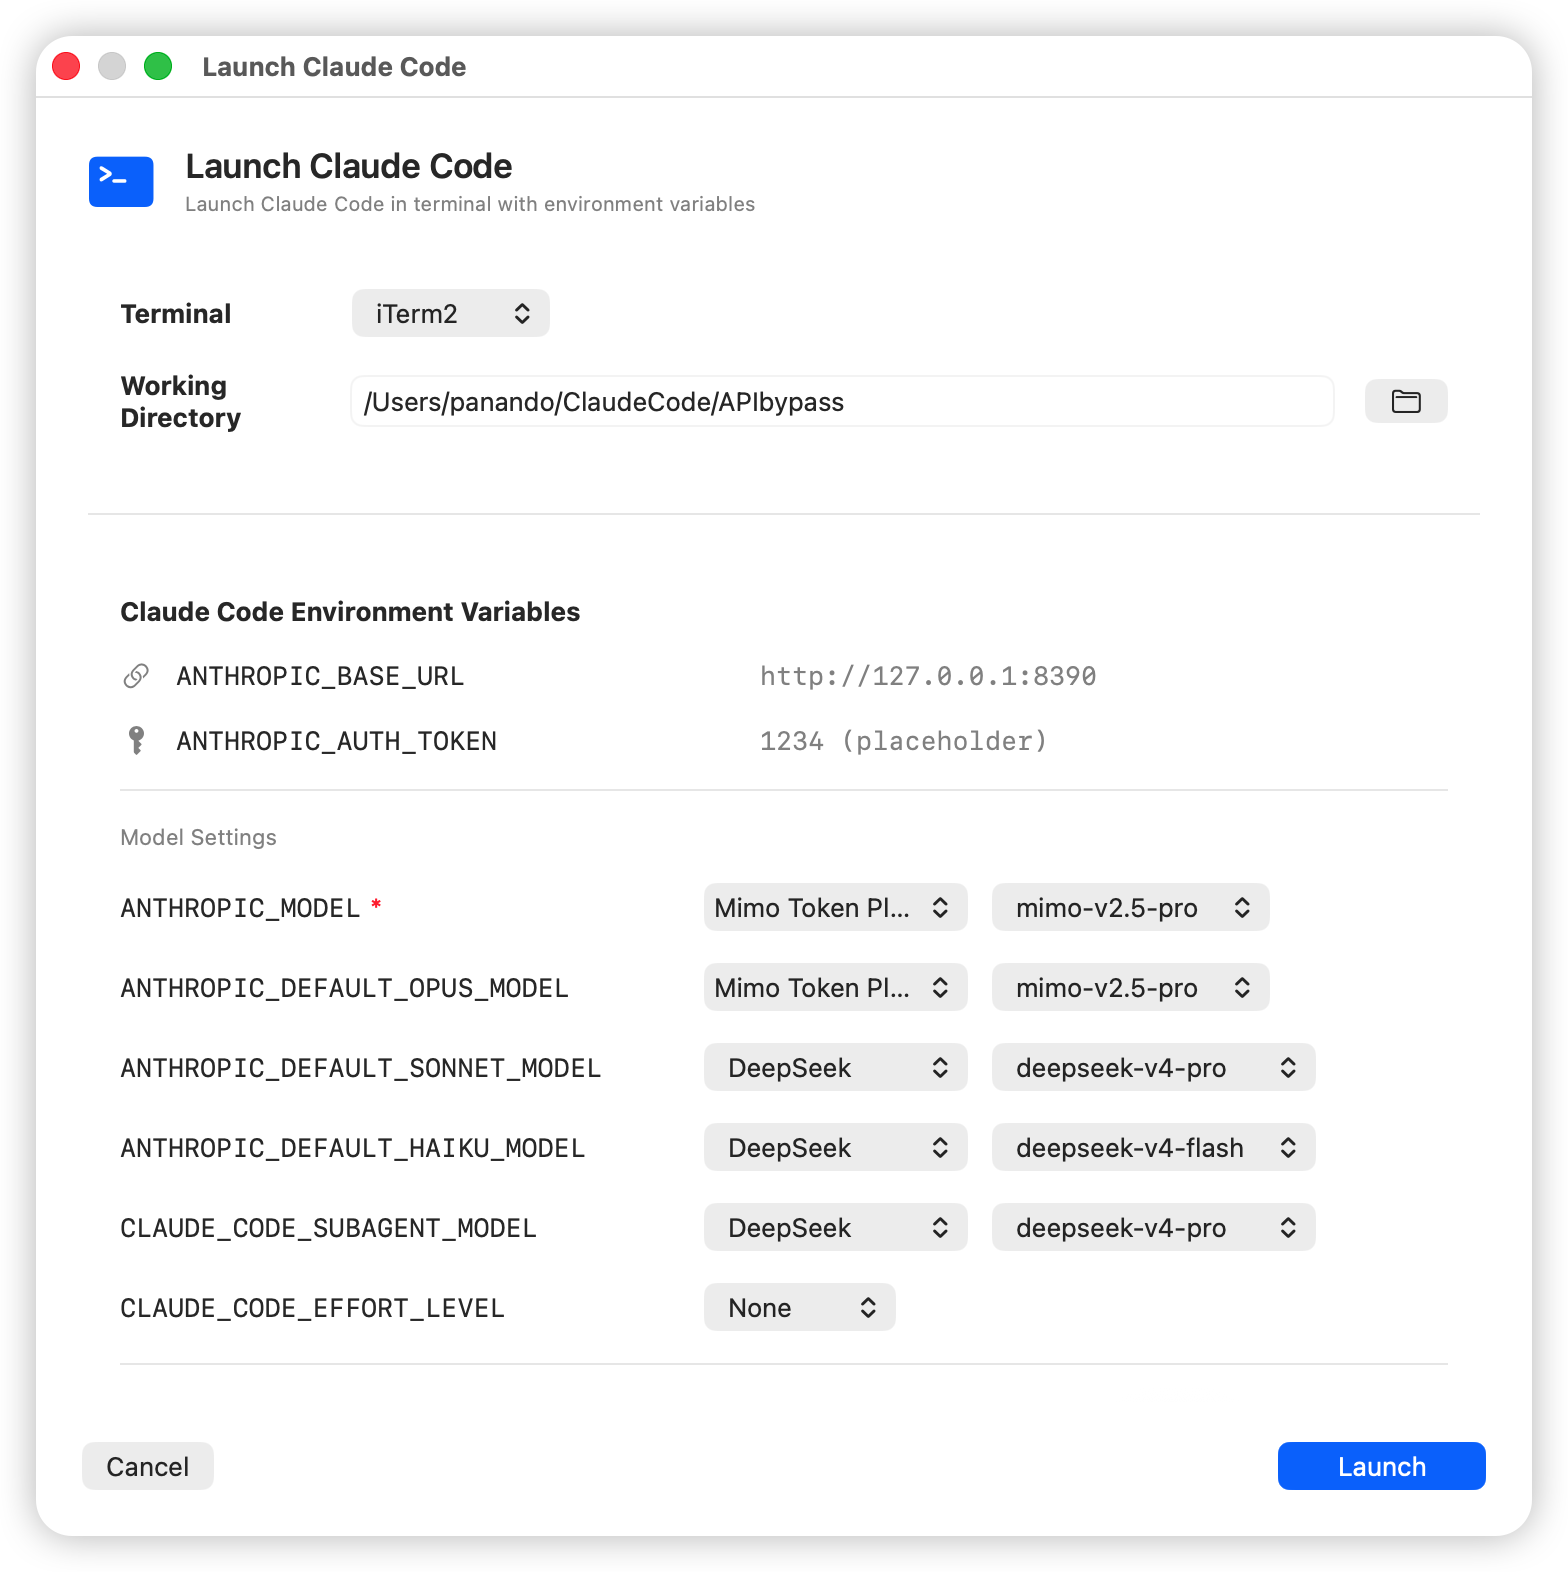
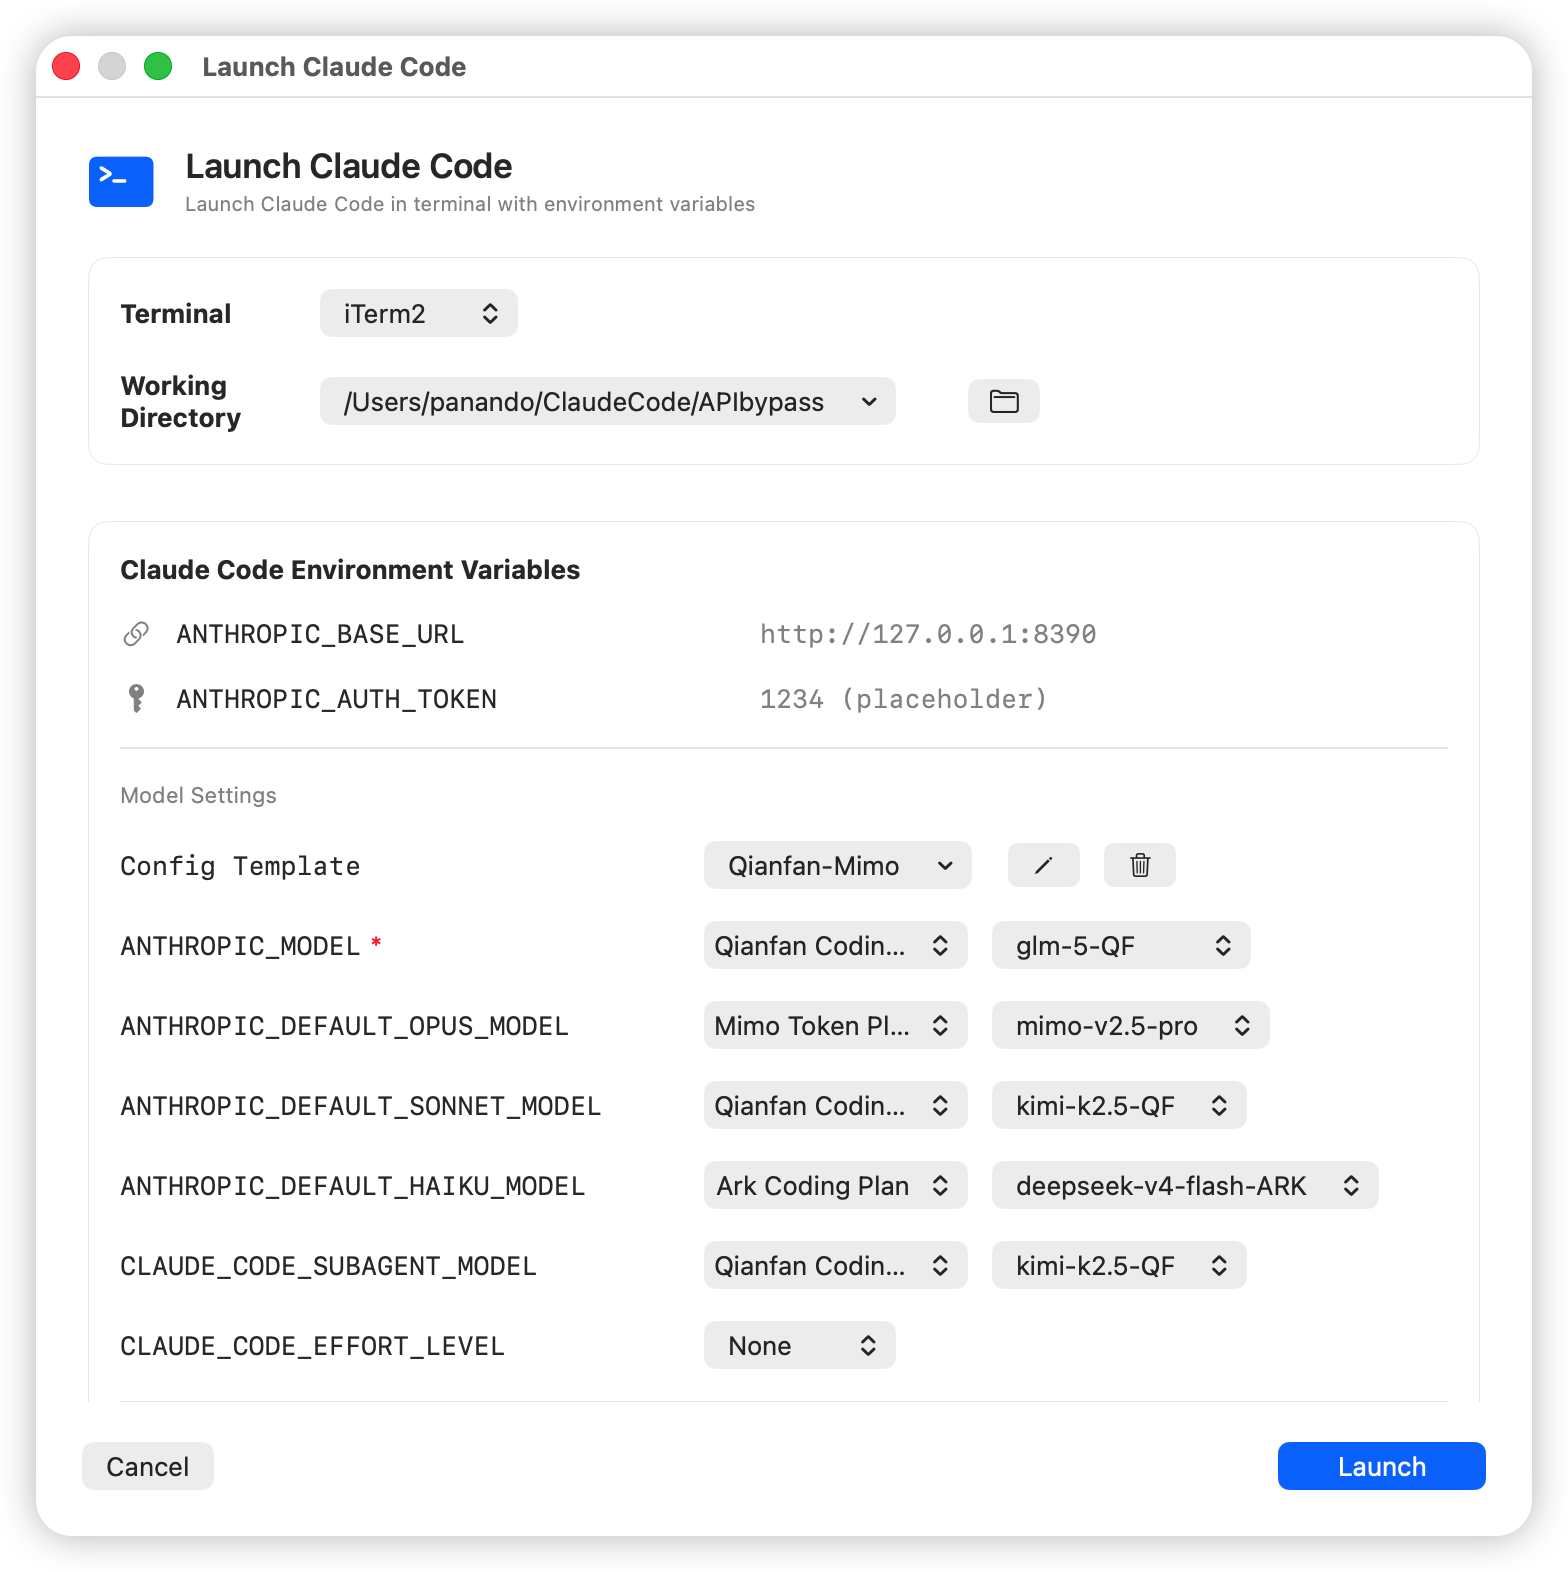
release: v0.5.6 — SSE compatibility fix, extended thinking support
- fix: SSE decoder compatibility with non-standard SSE format (no blank line separators)
- feat: convert Anthropic thinking_delta to OpenAI reasoning_content in streaming
- feat: handle redacted_thinking blocks in Anthropic → OpenAI conversion
- refactor: simplify default templates to single empty "Default" template
- style: unify terminal selection section border with environment variables section

diff --git a/APIBypass/Core/StreamTranslator.swift b/APIBypass/Core/StreamTranslator.swift
@@ -220,6 +220,7 @@ final class StreamTranslator {
                             // Emit initial chunk with role
                             let chunk = oaiChunk(id: chunkId, model: model, created: created,
                                                  delta: ["role": "assistant"])
+                            print("[SSEConverter] message_start -> OpenAI chunk")
                             continuation.yield(chunk)
 
                         case "content_block_start":
@@ -236,17 +237,31 @@ final class StreamTranslator {
                                         "function": ["name": name, "arguments": ""]
                                     ]]])
                                 continuation.yield(chunk)
-                            }
+                            } else if blockType == "redacted_thinking" {
+                                    let chunk = oaiChunk(id: chunkId, model: model, created: created,
+                                                         delta: ["reasoning_content": "(推理内容已隐藏)"])
+                                    continuation.yield(chunk)
+                                }
 
                         case "content_block_delta":
                             let delta = obj["delta"] as? [String: Any] ?? [:]
                             switch delta["type"] as? String {
                             case "text_delta":
                                 if let text = delta["text"] as? String {
+                                    print("[SSEConverter] text_delta: \(text.prefix(50))")
                                     let chunk = oaiChunk(id: chunkId, model: model, created: created,
                                                          delta: ["content": text])
                                     continuation.yield(chunk)
                                 }
+                            case "thinking_delta":
+                                if let thinking = delta["thinking"] as? String {
+                                    let chunk = oaiChunk(id: chunkId, model: model, created: created,
+                                                         delta: ["reasoning_content": thinking])
+                                    continuation.yield(chunk)
+                                }
+                            case "signature_delta":
+                                // signature 仅在多轮对话中需要传递，此处忽略
+                                break
                             case "input_json_delta":
                                 if let json = delta["partial_json"] as? String {
                                     let chunk = oaiChunk(id: chunkId, model: model, created: created,
@@ -259,6 +274,9 @@ final class StreamTranslator {
                             default:
                                 break
                             }
+
+                        case "content_block_stop":
+                            break
 
                         case "message_delta":
                             let d = obj["delta"] as? [String: Any] ?? [:]
@@ -285,6 +303,7 @@ final class StreamTranslator {
                             continuation.yield(oaiSSE(data: chunkObj))
 
                         case "message_stop":
+                            print("[SSEConverter] message_stop -> [DONE]")
                             continuation.yield("data: [DONE]\n\n")
 
                         default:
@@ -292,8 +311,10 @@ final class StreamTranslator {
                         }
                     }
 
+                    print("[SSEConverter] 流处理完成")
                     continuation.finish()
                 } catch {
+                    print("[SSEConverter] 流处理错误: \(error)")
                     continuation.finish(throwing: error)
                 }
             }
@@ -374,8 +395,10 @@ private enum SSEDecoder {
         AsyncThrowingStream { continuation in
             Task {
                 do {
+                    print("[SSEDecoder] 开始解码 SSE 流...")
                     var currentEvent: String?
                     var dataLines: [String] = []
+                    var eventCount = 0
 
                     for try await line in bytes.lines {
                         let trimmed = line.trimmingCharacters(in: .newlines)
@@ -386,6 +409,8 @@ private enum SSEDecoder {
                             // Empty line = event boundary
                             if !dataLines.isEmpty {
                                 let data = dataLines.joined(separator: "\n")
+                                eventCount += 1
+                                print("[SSEDecoder] 事件 #\(eventCount): event=\(currentEvent ?? "nil"), data=\(data.prefix(100))")
                                 continuation.yield(SSEEvent(event: currentEvent, data: data))
                             }
                             currentEvent = nil
@@ -394,6 +419,14 @@ private enum SSEDecoder {
                         }
 
                         if clean.hasPrefix("event:") {
+                            // 如果已经有积攒的 data，先 yield（处理没有空行分隔的情况）
+                            if !dataLines.isEmpty {
+                                let data = dataLines.joined(separator: "\n")
+                                eventCount += 1
+                                print("[SSEDecoder] 事件 #\(eventCount) (无空行): event=\(currentEvent ?? "nil"), data=\(data.prefix(100))")
+                                continuation.yield(SSEEvent(event: currentEvent, data: data))
+                                dataLines = []
+                            }
                             currentEvent = String(clean.dropFirst(6)).trimmingCharacters(in: .whitespaces)
                         } else if clean.hasPrefix("data:") {
                             dataLines.append(String(clean.dropFirst(5)).trimmingCharacters(in: .whitespaces))
@@ -402,6 +435,8 @@ private enum SSEDecoder {
 
                     // Flush remaining
                     if !dataLines.isEmpty {
+                        eventCount += 1
+                        print("[SSEDecoder] 事件 #\(eventCount) (最终): event=\(currentEvent ?? "nil"), data=\(dataLines.joined(separator: "\n").prefix(100))")
                         continuation.yield(SSEEvent(event: currentEvent, data: dataLines.joined(separator: "\n")))
                     }
 

diff --git a/APIBypass/Services/ClaudeCodeLauncher.swift b/APIBypass/Services/ClaudeCodeLauncher.swift
@@ -117,34 +117,12 @@ final class ClaudeCodeLauncher {
     static func defaultTemplates() -> [LaunchTemplate] {
         [
             LaunchTemplate(
-                name: "Claude Code Default",
-                anthropicModel: "claude-opus-4-6",
-                opusModel: "claude-opus-4-6",
-                sonnetModel: "claude-sonnet-4-6",
-                haikuModel: "claude-haiku-4-5-20251001",
-                subagentModel: "claude-sonnet-4-6",
-                effortLevel: "",
-                disableAttributionHeader: false,
-                rectifierEnabled: true
-            ),
-            LaunchTemplate(
-                name: "DeepSeek",
-                anthropicModel: "deepseek-v4",
-                opusModel: "deepseek-v4",
-                sonnetModel: "deepseek-v4",
-                haikuModel: "deepseek-v4",
-                subagentModel: "deepseek-v4",
-                effortLevel: "",
-                disableAttributionHeader: false,
-                rectifierEnabled: true
-            ),
-            LaunchTemplate(
-                name: "MiMo",
-                anthropicModel: "mimo-v2.5",
-                opusModel: "mimo-v2.5",
-                sonnetModel: "mimo-v2.5",
-                haikuModel: "mimo-v2.5",
-                subagentModel: "mimo-v2.5",
+                name: "Default",
+                anthropicModel: "",
+                opusModel: "",
+                sonnetModel: "",
+                haikuModel: "",
+                subagentModel: "",
                 effortLevel: "",
                 disableAttributionHeader: false,
                 rectifierEnabled: true

diff --git a/APIBypass/Core/HTTPServer.swift b/APIBypass/Core/HTTPServer.swift
@@ -302,15 +302,19 @@ final class HTTPServer: ObservableObject {
 
         let body = ResponseBody(contentLength: nil) { writer in
             do {
+                print("[SSE] 开始发送流式请求到上游...")
                 let streamResult = try await self.networkService.sendStream(request: upstreamRequest)
+                print("[SSE] 上游连接成功，开始接收流数据...")
 
                 if needsConversion {
                     let streamTranslator = StreamTranslator()
                     let convertedStream: AsyncThrowingStream<String, Error>
+                    print("[SSE] 需要格式转换: \(upstreamFormat) → \(clientFormat)")
                     switch (upstreamFormat, clientFormat) {
                     case (.openai, .anthropic):
                         convertedStream = streamTranslator.translateOpenAIToAnthropic(bytes: streamResult.bytes, model: model)
                     case (.anthropic, .openai):
+                        print("[SSE] 使用 translateAnthropicToOpenAI 转换器")
                         convertedStream = streamTranslator.translateAnthropicToOpenAI(bytes: streamResult.bytes, model: model)
                     case (.responses, .anthropic), (.responses, .openai), (.anthropic, .responses), (.openai, .responses):
                         print("[SSE] Responses streaming format translation not yet fully implemented, forwarding raw stream")

diff --git a/APIBypass/UI/Views/LaunchClaudeCodeView.swift b/APIBypass/UI/Views/LaunchClaudeCodeView.swift
@@ -370,6 +370,10 @@ struct LaunchClaudeCodeView: View {
         }
         .padding(16)
         .background(Color(NSColor.controlBackgroundColor))
+        .overlay(
+            RoundedRectangle(cornerRadius: 10)
+                .stroke(Color(nsColor: .separatorColor), lineWidth: 1)
+        )
         .cornerRadius(10)
     }
 

diff --git a/RELEASE_NOTES.md b/RELEASE_NOTES.md
@@ -1,3 +1,45 @@
+# APIBypass v0.5.6
+
+## What's New
+
+### SSE Compatibility Fix
+- **Fixed SSE parsing for non-standard providers**: Resolved an issue where some API providers (e.g., MiMo) return SSE events without blank line separators, causing complete response failure. The decoder now correctly handles both standard and non-standard SSE formats.
+
+### Extended Thinking Support
+- **Anthropic → OpenAI thinking conversion**: When converting Anthropic streaming responses to OpenAI format, `thinking_delta` blocks are now mapped to OpenAI's native `reasoning_content` field, ensuring seamless display in OpenAI-compatible clients.
+- **Redacted thinking handling**: `redacted_thinking` blocks are converted to a placeholder message in `reasoning_content`.
+
+### Claude Code Launcher Improvements
+- **Simplified default templates**: Reduced from 3 preset templates to 1 empty "Default" template for cleaner initial state.
+- **Unified UI styling**: Terminal selection section now matches the environment variables section with consistent border styling.
+
+## Changelog
+
+- fix: SSE decoder compatibility with non-standard SSE format (no blank line separators)
+- feat: convert Anthropic `thinking_delta` to OpenAI `reasoning_content` in streaming translation
+- feat: handle `redacted_thinking` blocks in Anthropic → OpenAI conversion
+- feat: add `signature_delta` handling (ignored for single-turn, needed for multi-turn continuity)
+- refactor: simplify default templates to single empty "Default" template
+- style: unify terminal selection section border with environment variables section
+- chore: add debug logging for SSE stream processing
+
+## Download
+
+- [APIBypass-0.5.6.dmg](https://github.com/panando/APIBypass/releases/tag/v0.5.6)
+
+## Build from Source
+
+```bash
+git clone https://github.com/panando/APIBypass.git
+cd APIBypass
+git checkout v0.5.6
+swift build -c release
+```
+
+**Requirements**: macOS 14.0+, Swift 6.0+, Xcode 16.0+
+
+---
+
 # APIBypass v0.5.3
 
 ## What's New
